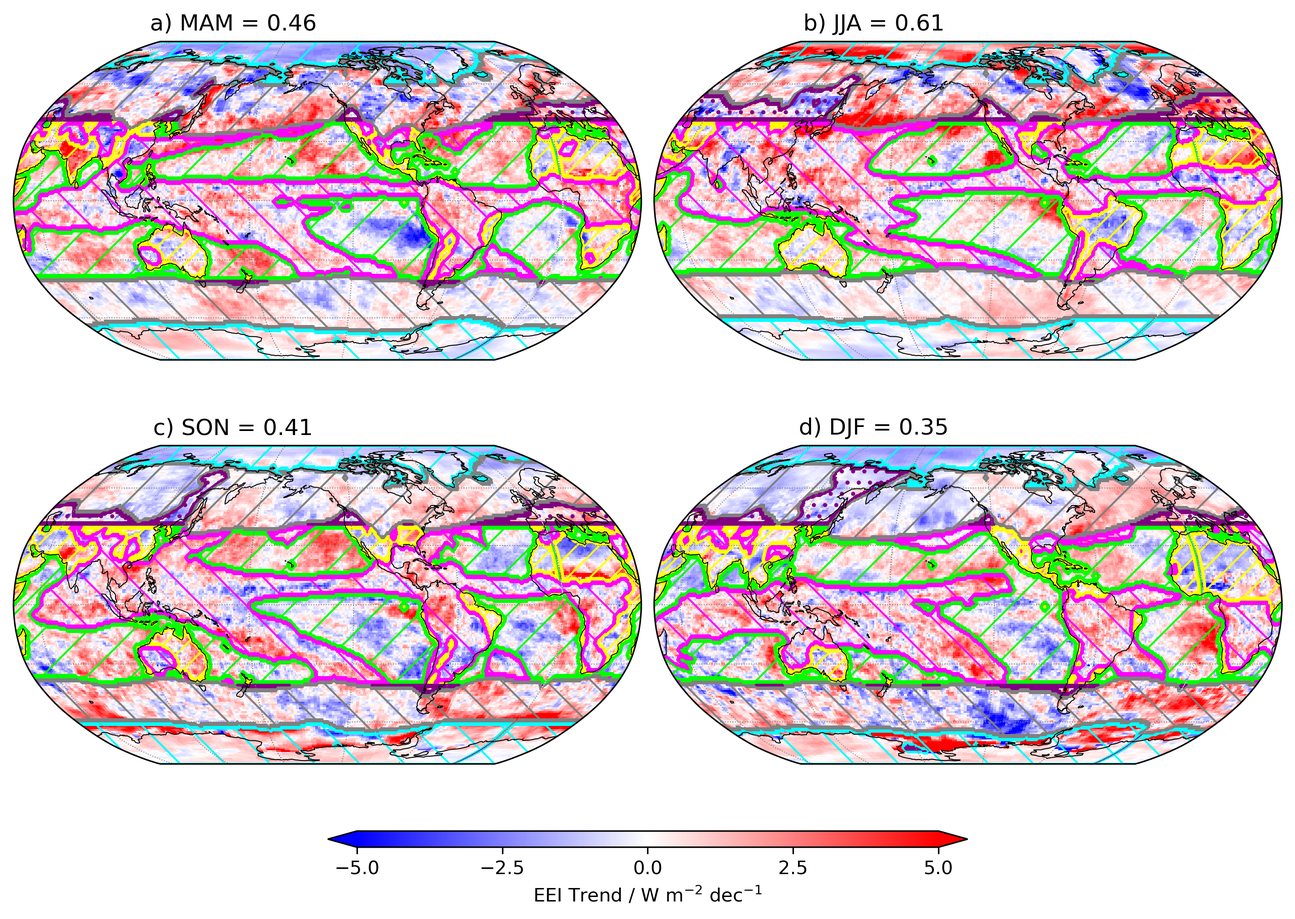
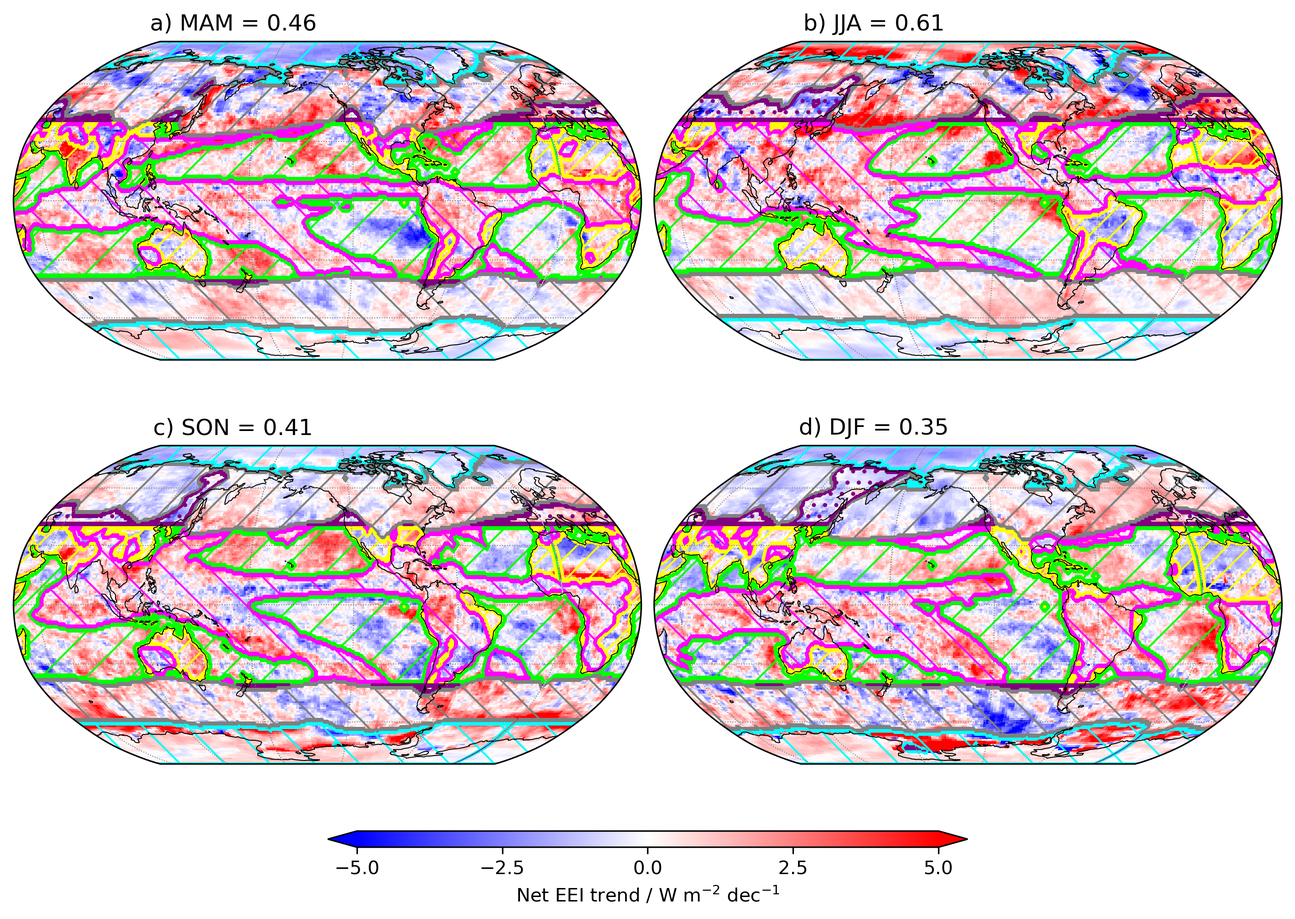
make fig label capitalization consistent

diff --git a/make_figs/masks.py b/make_figs/masks.py
@@ -54,7 +54,7 @@ for i,s in enumerate(["MAM","JJA","SON","DJF"]):
             collection.set_edgecolor(colors[name])
             collection.set_linewidth(0.0)  # remove polygon edges
     
-plot_colorbar(fig, cf, "EEI Trend / W m$^{-2}$ dec$^{-1}$", [0.25, -0.05, 0.5, 0.02])
+plot_colorbar(fig, cf, "Net EEI trend / W m$^{-2}$ dec$^{-1}$", [0.25, -0.05, 0.5, 0.02])
 plt.savefig("figures/eei_seasons_masks.png", dpi=300, facecolor="w", bbox_inches="tight")
 
 plt.figure(figsize=(6,4))

diff --git a/make_figs/eei_and_drivers.py b/make_figs/eei_and_drivers.py
@@ -37,7 +37,7 @@ def eei_and_drivers_maps(eei, driver, savefile):
             Nlabel = f"{nicenames[varj]}{nicenames[vari]}"
             ax.set_title(letter[i,j]+") "+Nlabel+f" = {trend_gm:0.2f}", position=(0.35, 1.0))
     
-    plot_colorbar(fig, cf, "EEI Trend / W m$^{-2}$ dec$^{-1}$", [0.25, 0.38, 0.5, 0.02])
+    plot_colorbar(fig, cf, "EEI trend / W m$^{-2}$ dec$^{-1}$", [0.25, 0.38, 0.5, 0.02])
 
     letter = np.array(["g","h","i"])
     lim = [1, 2, 0.1]
